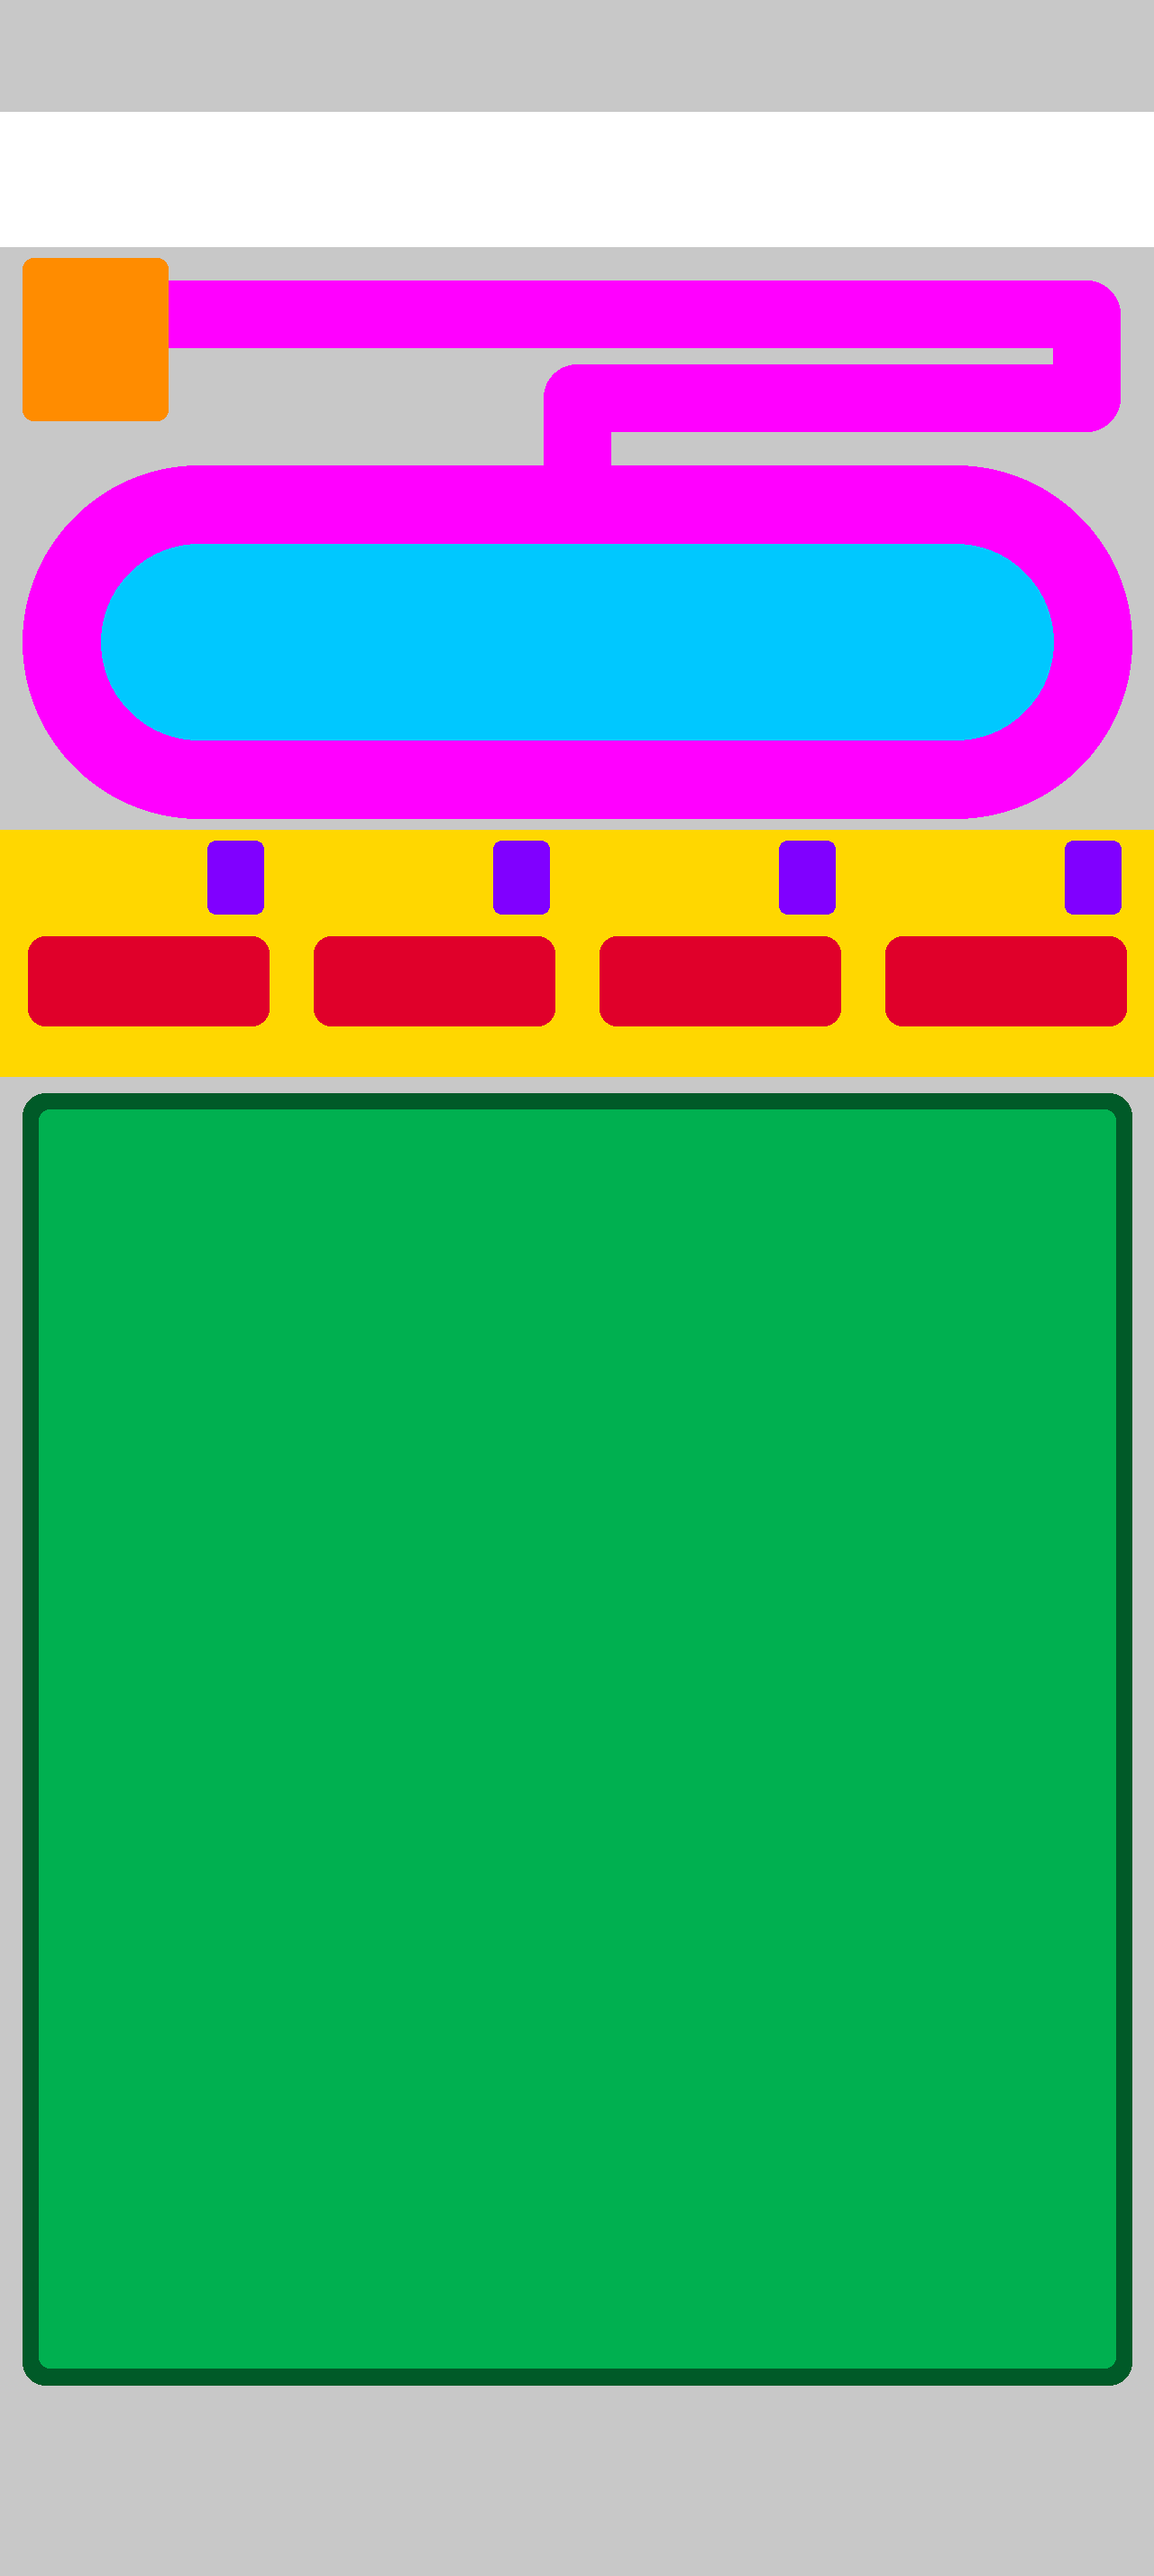
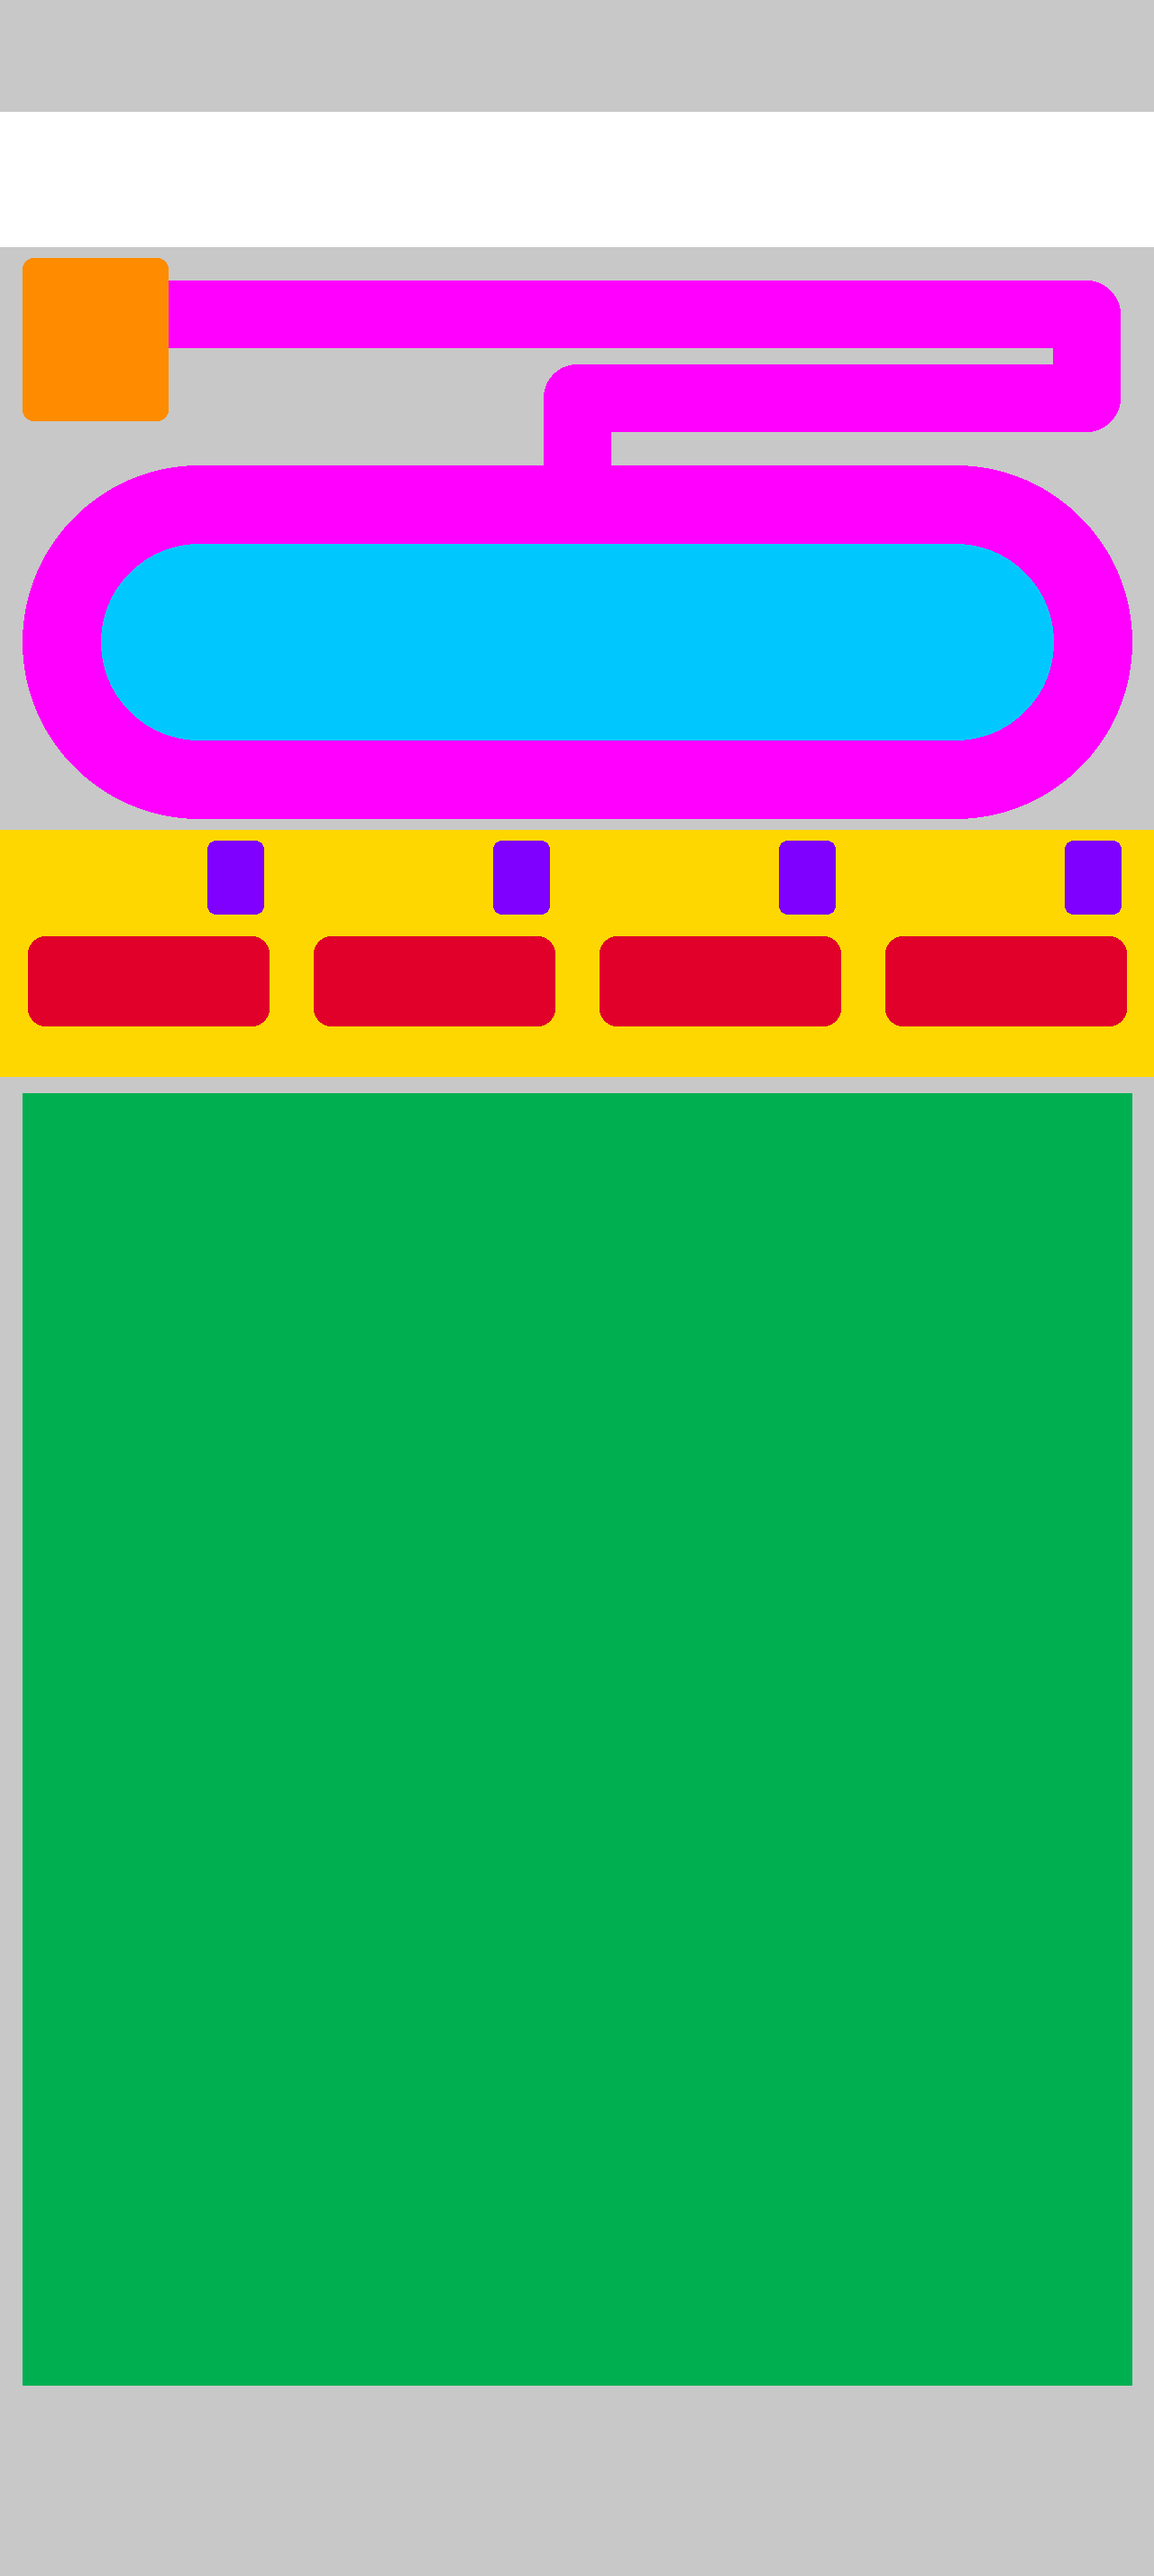
Sushi backdrop v2 prompt: labels-only zone colours, flat view, no board frame; keep v1 results

Changed region(s): [[0.0, 0.4051, 1.0, 0.9349]]

diff --git a/tools/art/md_preview.py b/tools/art/md_preview.py
@@ -1,0 +1,60 @@
+#!/usr/bin/env python3
+"""Render a manual prompt sheet (Markdown) to HTML with attachment previews and copy buttons, then open it.
+
+Usage: python3 tools/art/md_preview.py art/prompts/manual/<name>.md [out.html]
+Attachments are the repo paths in the list under "Attach"; every `path` that exists becomes a file:// link.
+"""
+import re
+import subprocess
+import sys
+import tempfile
+from pathlib import Path
+
+import markdown
+
+ROOT = Path(__file__).resolve().parents[2]
+
+
+def main(argv):
+    src = ROOT / argv[1]
+    out = Path(argv[2]) if len(argv) > 2 else Path(tempfile.gettempdir()) / (src.stem + ".html")
+    md = src.read_text(encoding="utf-8")
+    attach = re.findall(r"^\d+\. `([^`]+)`", md.split("## ")[0], flags=re.M)
+    body = markdown.markdown(md, extensions=["extra"])
+
+    def link(m):
+        f = ROOT / m.group(1)
+        return f'<a href="file://{f}"><code>{m.group(1)}</code></a>' if f.exists() else m.group(0)
+
+    body = re.sub(r"<code>([^<]+)</code>", link, body)
+    thumbs = "".join(f'<figure><img src="file://{ROOT / p}"><figcaption>{p}</figcaption></figure>' for p in attach)
+    html = f"""<!doctype html><meta charset="utf-8"><title>{src.stem}</title>
+<style>
+body{{font:16px/1.55 -apple-system,system-ui,sans-serif;max-width:820px;margin:32px auto;padding:0 16px;color:#3b2a20;background:#fbf6ee}}
+h1,h2{{color:#6b3f24}} code{{background:#f0e6d8;padding:1px 4px;border-radius:4px}}
+.att{{display:flex;gap:16px;flex-wrap:wrap}} figure{{margin:0}} figure img{{height:320px;border:1px solid #d8c8b0;border-radius:6px}}
+figcaption{{font-size:12px;color:#7a6650}}
+.copy{{float:right;font-size:13px;padding:4px 10px;border-radius:6px;border:1px solid #b8946a;background:#fff;cursor:pointer}}
+section.prompt{{background:#fff;border:1px solid #e3d5c0;border-radius:8px;padding:4px 16px 12px;margin:12px 0}}
+</style>
+<div class="att">{thumbs}</div>
+{body}
+<script>
+document.querySelectorAll('h2').forEach(h=>{{
+  if(!/^Prompt/.test(h.textContent))return;
+  const box=document.createElement('section');box.className='prompt';
+  let n=h.nextElementSibling;const nodes=[];
+  while(n&&n.tagName!=='H2'){{nodes.push(n);n=n.nextElementSibling;}}
+  h.after(box);nodes.forEach(x=>box.appendChild(x));
+  const b=document.createElement('button');b.className='copy';b.textContent='Copy prompt';
+  b.onclick=()=>{{navigator.clipboard.writeText(box.innerText.replace('Copy prompt','').trim());b.textContent='Copied';setTimeout(()=>b.textContent='Copy prompt',1500)}};
+  box.prepend(b);
+}});
+</script>"""
+    out.write_text(html, encoding="utf-8")
+    subprocess.run(["open", "-a", "Google Chrome", str(out)], check=False)
+    print(out)
+
+
+if __name__ == "__main__":
+    main(sys.argv)

diff --git a/tools/art/zone_guide.py b/tools/art/zone_guide.py
@@ -23,7 +23,6 @@ COLOURS = {
     "counter": (255, 215, 0),        # yellow
     "bench": (224, 0, 42),           # red
     "holder": (128, 0, 255),         # purple
-    "board_frame": (0, 90, 40),      # dark green
     "board": (0, 176, 80),           # green
 }
 
@@ -64,10 +63,9 @@ def render(layout):
 
     d.rounded_rectangle(box(z["kitchen"]["rect"]), radius=round(4 * s), fill=COLOURS["kitchen"])
 
-    bx0, by0, bx1, by1 = z["board"]["rect"]
-    f = z["board"]["frame"]
-    d.rounded_rectangle(box([bx0, by0, bx1, by1]), radius=round(8 * s), fill=COLOURS["board_frame"])
-    d.rounded_rectangle(box([bx0 + f, by0 + f, bx1 - f, by1 - f]), radius=round(4 * s), fill=COLOURS["board"])
+    # The board itself is drawn by the app; the painting only supplies a calm floor here (no frame colour,
+    # which v1 left behind as a dark green border).
+    d.rectangle(box(z["board"]["rect"]), fill=COLOURS["board"])
     return img
 
 

diff --git a/art/prompts/manual/sushi_backdrop.md b/art/prompts/manual/sushi_backdrop.md
@@ -1,21 +1,28 @@
-# Sushi bar backdrop: manual Gemini run
+# Sushi bar backdrop: manual Gemini run (v2)
 
 Attach, in this order:
 1. `art/guides/default_zones_small.png` (the colour-zone layout)
 2. `docs/skin/mocks/restaurant_level.jpeg` (style reference)
 
+v1 notes (`art/raw/sushi/backdrop_v1*.jpeg`): the trace-back worked and lines up with the painting. Problems: the
+dark green frame colour was left in the painting, the board was drawn in perspective as a trapezoid, and the
+benches and ticket stands kept their red and purple label colours. v2 drops the frame zone (the app draws the
+board), states that zone colours are labels only, and asks for a flat top-down view.
+
 ## Prompt 1: paint the backdrop
 
-Image 1 is a colour-coded layout map of a portrait mobile game screen. Image 2 shows the art style and setting. Paint the empty background scene for this game screen in exactly the art style of image 2: a cozy Japanese sushi bar for cute animals, flat 2D illustration, soft cel shading, thick dark brown outlines, warm pastel palette, seen from directly above.
+Image 1 is a colour-coded layout map of a portrait mobile game screen. Image 2 shows the art style and setting. Paint the empty background scene for this game screen in exactly the art style of image 2: a cozy Japanese sushi bar for cute animals, flat 2D illustration, soft cel shading, thick dark brown outlines, warm pastel palette.
 
-Keep every coloured zone of image 1 in exactly the same position, size and shape, and paint each one as follows:
+The view is flat and straight down, like a floor plan: no perspective at all. Every rectangle in image 1 stays a rectangle with parallel sides, every straight edge stays straight, nothing gets narrower towards the top.
+
+The colours in image 1 are only labels that say what goes where. None of these label colours may appear in the painting: paint each zone in its natural materials and colours, in exactly the same position, size and shape:
 - Magenta: an empty conveyor belt made of pale wooden slats with a light wooden rim. The thin magenta path is the incoming belt; the magenta ring is a closed loop belt. No plates and no food on the belts.
-- Orange: a kitchen hatch with a short noren curtain; the incoming belt comes out of it.
+- Orange: a kitchen hatch with a short cream noren curtain; the incoming belt comes out of it.
 - Cyan: the area inside the loop, a plain light wooden surface.
-- Yellow: a light wooden sushi counter.
-- Red: four short, empty wooden benches. No animals.
-- Purple: four small, empty wooden ticket stands.
-- Green with the dark green border: a plain, pale, light wooden counter top with a thin darker wood frame. Completely empty and calm: no grid, no lines, no objects, no pattern.
+- Yellow: a light natural wooden sushi counter.
+- Red: four short, empty benches in natural light wood. No animals.
+- Purple: four small, empty ticket stands in natural light wood, with nothing in them.
+- Green: a plain, flat, pale wooden floor, one even calm surface that fills the whole green area right up to its edges. No table, no frame, no border, no edge line, no grid, no lines, no objects, no pattern.
 - White: a plain pale cream wall with nothing on it (the game draws its buttons here).
 - Grey: background scenery for the edges of the screen: cream paper screens, light natural wood, a few small paper lanterns and noren curtains. Keep it pale and quiet.
 
@@ -23,8 +30,9 @@ Same portrait aspect ratio as image 1. No plates, no food, no animals, no ticket
 
 ## Prompt 2: trace it back into zones (same chat, after an accepted painting)
 
-Now convert the image you just made into a flat colour map with exactly the same layout as image 1. Fill every area with one solid colour, no shading, no outlines, no texture: conveyor belts magenta (#FF00FF), kitchen hatch orange (#FF8C00), inside of the loop cyan (#00C8FF), counter yellow (#FFD700), benches red (#E0002A), ticket stands purple (#8000FF), board frame dark green (#005A28), board surface green (#00B050), the plain wall at the top white (#FFFFFF), and everything else grey (#C8C8C8). Trace the shapes exactly where they are in your painting, even where they differ from image 1.
+Now convert the image you just made into a flat colour map with exactly the same layout as image 1. Fill every area with one solid colour, no shading, no outlines, no texture: conveyor belts magenta (#FF00FF), kitchen hatch orange (#FF8C00), inside of the loop cyan (#00C8FF), counter yellow (#FFD700), benches red (#E0002A), ticket stands purple (#8000FF), the plain floor area at the bottom green (#00B050), the plain wall at the top white (#FFFFFF), and everything else grey (#C8C8C8). Trace the shapes exactly where they are in your painting, even where they differ from image 1.
 
 ## Save as
-- Painting: `art/raw/sushi/backdrop_v1.png` (or .jpeg)
-- Zone map from prompt 2: `art/raw/sushi/backdrop_v1_zones.png`
+- Painting: `art/raw/sushi/backdrop_v2.jpeg`
+- Zone map from prompt 2: `art/raw/sushi/backdrop_v2_zones.jpeg`
+(or just leave them in ~/Downloads and tell me)
